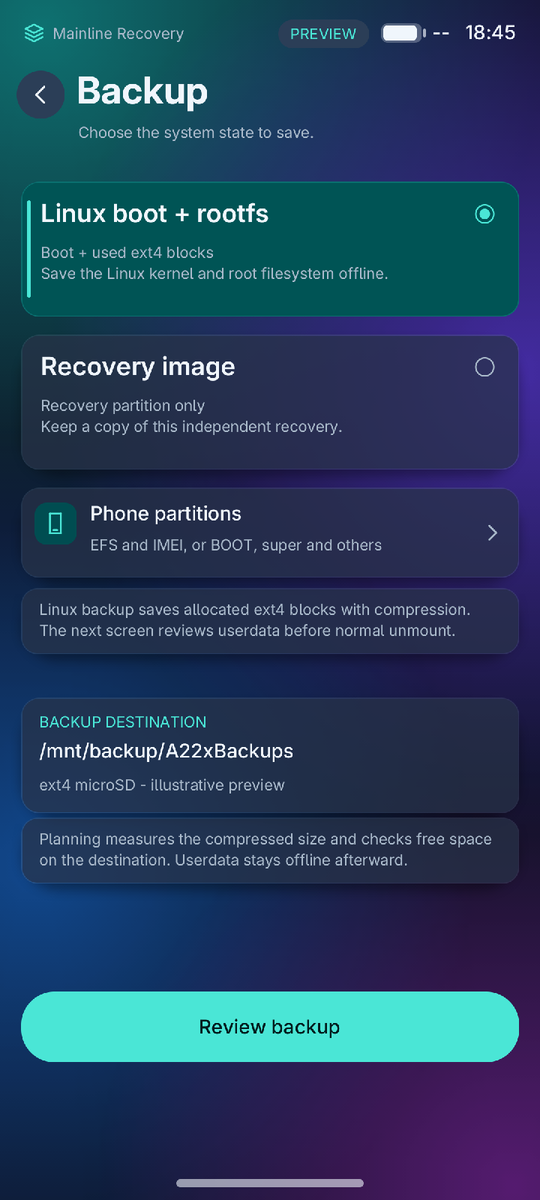
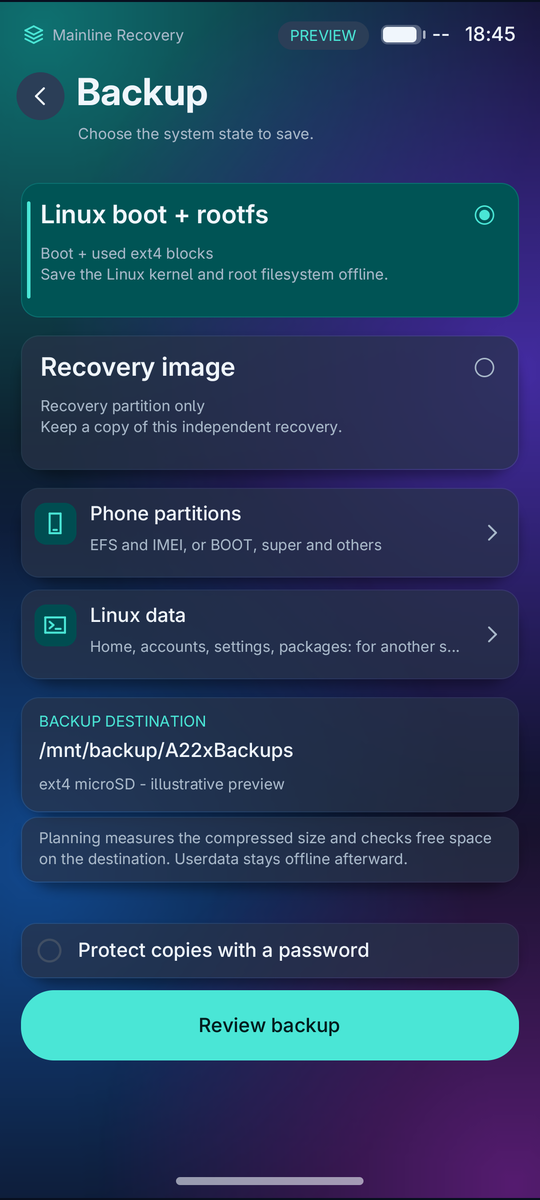
1.0.0 docs: test results, English screenshots; About says what restores
- docs/TEST_RESULTS(_UK).md: the automatic run of 1.0.0 (797 Python, 109
  backend, 105 UI self-tests, every UI suite), and the checks on the phone
  from 0.6.207 to the public 1.0.0 image.
- docs/screenshots/en: Backup with Linux data, Backup protected with a
  password, the password page and its dots, Linux data and its restore,
  several files selected in Files (rendered from the interface's previews).
- About: the line of the 0.3 raw restore said restore was not qualified
  while Linux snapshots restored; it now says whether they restore here.

Claude-Session: https://claude.ai/code/session_011X51ML8nmkZnA9U8adKvGD

diff --git a/ui/i18n_data.h b/ui/i18n_data.h
@@ -4,7 +4,7 @@
 #define LANGUAGE_COUNT 6
 static const char*const language_codes[LANGUAGE_COUNT]={"en","uk","de","es","fr","pl"};
 static const char*const language_names[LANGUAGE_COUNT]={"English","Українська","Deutsch","Español","Français","Polski"};
-#define MESSAGE_COUNT 2203
+#define MESSAGE_COUNT 2204
 static const char*const message_ids[MESSAGE_COUNT]={
 "  /  skip-identical",
 " / preview truncated",
@@ -497,7 +497,6 @@ static const char*const message_ids[MESSAGE_COUNT]={
 "Desktop: %s  /  apps: %u",
 "Device",
 "Device inventory received",
-"Device restore is not qualified in this build",
 "Device tree overlays",
 "Diagnostic logs may include filenames, hardware identifiers and network details. Inspect the archive before sharing it.",
 "Diagnostics cannot be exported now.",
@@ -838,6 +837,8 @@ static const char*const message_ids[MESSAGE_COUNT]={
 "Linux data saved, protected with the password",
 "Linux from SD or USB stick, switch systems",
 "Linux restore awaits qualification",
+"Linux snapshots: restore and wipe available",
+"Linux snapshots: restore unavailable on this phone",
 "Linux systems",
 "Linux used-block snapshot. Wipe empties userdata only and requires this backup to match its current contents. Boot and recovery are preserved.",
 "Live",
@@ -2703,7 +2704,6 @@ static const char*const message_text[LANGUAGE_COUNT-1][MESSAGE_COUNT]={
 "Робочий стіл: %s  /  програм: %u",
 "Пристрій",
 "Дані про пристрій отримано",
-"Відновлення на пристрої не кваліфіковане в цій збірці",
 "Накладання дерева пристроїв",
 "Діагностичні журнали можуть містити назви файлів, ідентифікатори обладнання та дані мережі. Перегляньте архів, перш ніж ділитися ним.",
 "Зараз не вдається експортувати діагностику.",
@@ -3044,6 +3044,8 @@ static const char*const message_text[LANGUAGE_COUNT-1][MESSAGE_COUNT]={
 "Дані Linux збережено й захищено паролем",
 "Linux із SD чи флешки, перемикання систем",
 "Відновлення Linux очікує кваліфікації",
+"Знімки Linux: відновлення й стирання доступні",
+"Знімки Linux: відновлення недоступне на цьому телефоні",
 "Системи Linux",
 "Знімок зайнятих блоків Linux. Стирання очищає лише userdata і потребує, щоб ця копія збігалася з його вмістом. Boot і recovery лишаються.",
 "Наживо",
@@ -4908,7 +4910,6 @@ static const char*const message_text[LANGUAGE_COUNT-1][MESSAGE_COUNT]={
 "Desktop: %s  /  Apps: %u",
 "Gerät",
 "Geräteinventar empfangen",
-"Wiederherstellung auf dem Gerät ist in diesem Build nicht qualifiziert",
 "Device-Tree-Overlays",
 "Diagnoseprotokolle können Dateinamen, Hardwarekennungen und Netzwerkdaten enthalten. Prüfen Sie das Archiv, bevor Sie es teilen.",
 "Diagnose kann jetzt nicht exportiert werden.",
@@ -5249,6 +5250,8 @@ static const char*const message_text[LANGUAGE_COUNT-1][MESSAGE_COUNT]={
 "Linux-Daten gesichert, mit dem Passwort geschützt",
 "Linux von SD oder USB-Stick, Systemwechsel",
 "Linux-Wiederherstellung wartet auf Qualifizierung",
+"Linux-Snapshots: Wiederherstellen und Löschen verfügbar",
+"Linux-Snapshots: Wiederherstellen auf diesem Telefon nicht verfügbar",
 "Linux-Systeme",
 "Snapshot belegter Linux-Blöcke. Löschen leert nur Userdata und setzt voraus, dass diese Sicherung dem aktuellen Inhalt entspricht. Boot und Recovery bleiben erhalten.",
 "Live",
@@ -7113,7 +7116,6 @@ static const char*const message_text[LANGUAGE_COUNT-1][MESSAGE_COUNT]={
 "Escritorio: %s  /  aplicaciones: %u",
 "Dispositivo",
 "Inventario del dispositivo recibido",
-"La restauración en el dispositivo no está cualificada en esta versión",
 "Superposiciones del árbol de dispositivos",
 "Los registros de diagnóstico pueden incluir nombres de archivo, identificadores de hardware y datos de red. Revisa el archivo antes de compartirlo.",
 "Ahora no se puede exportar el diagnóstico.",
@@ -7454,6 +7456,8 @@ static const char*const message_text[LANGUAGE_COUNT-1][MESSAGE_COUNT]={
 "Datos de Linux guardados, protegidos con la contraseña",
 "Linux desde SD o USB, cambiar de sistema",
 "La restauración de Linux espera cualificación",
+"Instantáneas de Linux: restaurar y borrar disponibles",
+"Instantáneas de Linux: restaurar no disponible en este teléfono",
 "Sistemas Linux",
 "Instantánea de bloques usados de Linux. Borrar vacía solo userdata y requiere que esta copia coincida con su contenido actual. Boot y recovery se conservan.",
 "En vivo",
@@ -9318,7 +9322,6 @@ static const char*const message_text[LANGUAGE_COUNT-1][MESSAGE_COUNT]={
 "Bureau : %s  /  applications : %u",
 "Appareil",
 "Inventaire de l'appareil reçu",
-"La restauration sur l'appareil n'est pas qualifiée dans cette version",
 "Superpositions du Device Tree",
 "Les journaux de diagnostic peuvent contenir des noms de fichiers, des identifiants matériels et des informations réseau. Examinez l'archive avant de la partager.",
 "Le diagnostic ne peut pas être exporté maintenant.",
@@ -9659,6 +9662,8 @@ static const char*const message_text[LANGUAGE_COUNT-1][MESSAGE_COUNT]={
 "Données Linux sauvegardées, protégées par le mot de passe",
 "Linux depuis SD ou clé USB, changer de système",
 "La restauration Linux attend sa qualification",
+"Instantanés Linux : restauration et effacement disponibles",
+"Instantanés Linux : restauration indisponible sur ce téléphone",
 "Systèmes Linux",
 "Instantané des blocs utilisés de Linux. L'effacement vide uniquement userdata et exige que cette sauvegarde corresponde à son contenu actuel. Boot et recovery sont conservés.",
 "Direct",
@@ -11523,7 +11528,6 @@ static const char*const message_text[LANGUAGE_COUNT-1][MESSAGE_COUNT]={
 "Pulpit: %s  /  aplikacje: %u",
 "Urządzenie",
 "Odebrano spis urządzenia",
-"Przywracanie na urządzeniu nie jest zakwalifikowane w tej wersji",
 "Nakładki drzewa urządzeń",
 "Dzienniki diagnostyczne mogą zawierać nazwy plików, identyfikatory sprzętu i dane sieci. Przejrzyj archiwum przed udostępnieniem.",
 "Nie można teraz wyeksportować diagnostyki.",
@@ -11864,6 +11868,8 @@ static const char*const message_text[LANGUAGE_COUNT-1][MESSAGE_COUNT]={
 "Dane Linuksa zapisane i chronione hasłem",
 "Linux z karty SD lub USB, zmiana systemu",
 "Przywracanie Linuksa czeka na kwalifikację",
+"Migawki Linuksa: przywracanie i czyszczenie dostępne",
+"Migawki Linuksa: przywracanie niedostępne na tym telefonie",
 "Systemy Linux",
 "Migawka zajętych bloków Linuksa. Czyszczenie opróżnia tylko userdata i wymaga, by ta kopia zgadzała się z jego obecną zawartością. Boot i recovery zostają.",
 "Na żywo",

diff --git a/ui/recovery_ui.c b/ui/recovery_ui.c
@@ -1441,7 +1441,10 @@ static void render_system(App*a){
     if(!a->partition_count){rounded(a,(Rect){28,y,664,84},26,PANEL);ellipsis(a,52,y+26,616,0,MUTED,a->message[0]?a->message:"No partition inventory received.");y+=102;}
     /* On a card, because a theme's picture may be behind this text. */
     rounded(a,(Rect){28,y,664,206},26,PANEL);wrapped(a,52,y+18,616,0,MUTED,"Recovery runs from RAM. Mounted Linux volumes can be maintained independently of the installed system. Encrypted volumes require their own unlock support.",4);
-    ellipsis(a,52,y+160,616,0,a->restore_qualified?GREEN:ORANGE,a->restore_qualified?"Restore admitted for regular-file fixtures":"Device restore is not qualified in this build");y+=224;
+    /* 2026-11-13, on the phone: the line of the 0.3 raw restore said restore was not qualified while
+       Linux snapshots restored; it now says what this recovery can restore. */
+    ellipsis(a,52,y+160,616,0,a->restore_qualified||a->linux_restore_available?GREEN:ORANGE,a->restore_qualified?"Restore admitted for regular-file fixtures":
+             a->linux_restore_available?"Linux snapshots: restore and wipe available":"Linux snapshots: restore unavailable on this phone");y+=224;
     button(a,(Rect){28,y,664,84},"Refresh inventory",A_REFRESH,ui_free(a),false,0);y+=108;
     a->page_content=y+a->page_scroll-230;a->clip_active=false;scroll_indicator(a,(Rect){698,230,5,1254},a->page_scroll,a->page_content,ORANGE);
 }
@@ -5452,7 +5455,7 @@ static bool preview(App*a,const char*name){
         a->pw_retry_kind=J_NONE;a->pw_return=BACKUP;a->fs_prompt_kind=J_BACKUP_PASSWORD;copy(a->fs_prompt,sizeof(a->fs_prompt),"pass7k");a->prompt_cursor=strlen(a->fs_prompt);a->secret_count=6;a->now=2000000;
         a->secret_typed_at=!strcmp(name,"secret-reveal")?a->now-200:(!strcmp(name,"secret-pop")?a->now-SECRET_REVEAL_MS-110:0);a->screen=FILE_PROMPT;}
     else if(!strcmp(name,"backup-password")){a->pw_retry_kind=J_NONE;a->pw_return=BACKUP;a->fs_prompt_kind=J_BACKUP_PASSWORD;copy(a->fs_prompt,sizeof(a->fs_prompt),"my pass 2026");a->prompt_cursor=strlen(a->fs_prompt);a->screen=FILE_PROMPT;}
-    else if(!strcmp(name,"backup-protected")){a->backup_encrypt=true;a->screen=BACKUP;}
+    else if(!strcmp(name,"backup-protected")){a->backup_encrypt=true;copy(a->backup_password,sizeof(a->backup_password),"my pass 2026");a->linux_backup_available=true;a->screen=BACKUP;}
     else if(!strcmp(name,"wipe-android")){a->wipe_android=true;a->screen=WIPE_REVIEW;}
     else if(!strncmp(name,"android-log",11)){
         /* What the owner met (kernel), init giving up for another reason (init), and a panic. */

diff --git a/docs/TEST_RESULTS_UK.md b/docs/TEST_RESULTS_UK.md
@@ -1,12 +1,65 @@
 # Результати тестів
 
-Recovery **0.6.206**, ядро recovery `7.2.0-a22x-recovery+ #137`, BOOT v147 (ядро `#138`), 12.11.2026.
+Recovery **1.0.0**, ядро recovery `7.2.0-a22x-recovery+ #137`, BOOT v147 (ядро `#138`), 13.11.2026,
+на SM-A226B з 64 ГБ.
 
 Тут розділено два види доказів. Перший — автоматичні тести на комп'ютері з фікстурами, без
 телефона. Другий — те, що зроблено на самому телефоні (SM-A226B) дотиками, як це робив би
 власник. Те, що пройшло лише на комп'ютері, ніде не названо робочим на телефоні.
 
-## Автоматичні тести (комп'ютер, фікстури)
+## Автоматичні тести (комп'ютер, фікстури), 1.0.0
+
+Один повний прогін усіх наборів на вихідниках 1.0.0: **пройдено всі 25**.
+
+| Набір | Результат | Обсяг |
+|---|---|---|
+| Помічники (Python): `tests/` | пройдено | 797 тестів |
+| Бекенд копій: `backend/tests/` | пройдено | 109 тестів |
+| Самоперевірки інтерфейсу: `make test` | пройдено | 105 |
+| 22 набори інтерфейсу (`ui/Makefile`: `integration` … `catalog-chain-test`) | пройдено | як для 0.6.206, плюс сторінки «Дані Linux» і пароля |
+| `ui: make linux-integration` | пройдено | 4 сценарії; з partclone для x86-64 з набору кваліфікації в `PATH` |
+
+## На телефоні, від 0.6.207 до 1.0.0 (12 і 13 листопада 2026)
+
+Зроблено дотиками на телефоні, якщо не сказано інакше.
+
+| Що | Збірка | Результат |
+|---|---|---|
+| Знімок Linux без кваліфікаційної капсули: userdata стерто у «Файлах», знімок Ubuntu 26.04 відновлено | 234 | відновлено й перевірено; Ubuntu запустилася: жодної збійної служби, Phosh, мережа, `/home` з 402 файлами |
+| Новий знімок; userdata стерто стиранням самого знімка; знімок відновлено | 235 | кожен крок перевірено; Ubuntu запустилася в тому самому стані |
+| Картка, змонтована у «Файлах», вибрана місцем копій | 235 | змонтована для копій; раніше `SD_ALREADY_MOUNTED_ELSEWHERE` |
+| «Відновлення» показує знімки після монтування картки на «Носіях» | 235 | працює; раніше список лишався порожнім |
+| Копія п'яти розділів Android під паролем | 236 | збережено зашифрованою (`Salted__`, відкривається openssl на комп'ютері); після перезапуску показана закритою; неправильний пароль відхилено; перевірено; відновлено: зіпсований `vbmeta_system` записано назад, перечитано, хеш як раніше |
+| Архів `/home/user` у «Файлах» під паролем, потім розпакований | 236 | 402 файли, ідентичні (один хеш на всі), власник і права збережено |
+| «Дані Linux» під паролем, відновлені вручну в Ubuntu: `restore.sh` дістано через openssl, пароль із пробілом введено в його запит | 236 | облікові записи збережено, домашні теки, 8 налаштувань, 79 з 79 пакетів; видалений файл повернувся зі своїм власником |
+| Архів, що писав крізь жорстке посилання за межі своєї теки | 236 | відхилено (`ARCHIVE_UNSAFE`); файл назовні не змінився |
+| 1100 тек запаковано при ліміті 256 відкритих файлів | 236 | запаковано |
+| «Дані Linux» пропонують просто вставлену картку як місце для копії | 236 | пропонують і потім від'єднують |
+| Декодер Brotli з байтами після кінця потоку | 236 | відхилено |
+| Флешка (OTG) як місце копій: на неї зроблено копію recovery; «Безпечно вийняти» (зробив власник, прочитано з журналу recovery) | 236 | копію збережено й перевірено; від'єднання виконано. «USB-файли» не можуть віддати саму флешку: єдиний порт тоді хост |
+| Старт: спершу відновлення обірваного запису, потім перевірка перезапуску, після неї прибирання cache | 237 | саме в такому порядку; прибирання читає описи копій |
+| vbmeta для root читається перевіреним циклом | 237 | прочитано: на цьому телефоні перевірку вимкнено |
+| Запис профілю звуку у файлах платформи в образі | 237 | посилання на теку UCM телефона |
+| Знімок екрана, коли операційний замок вільний | 237 | збережено на картку |
+| Публічний образ 1.0.0: версія, Linux-знімки без капсули, перевірка оновлень | 1.0.0 | показує 1.0.0; ключа SSH і капсули немає; знімки: копія, відновлення, стирання доступні; v0.6.206 на GitHub не пропонується як оновлення |
+| Прошивка Samsung A226BXXSBDZC3 з її ZIP на картці | 218 | розпаковано, MD5 перевірено, записано й перечитано; стоковий Android запустився |
+| LineageOS 20 для A226B через власний `update-binary` | 221 | встановлено; запустився після запропонованого скидання даних Android |
+| ZIP ядра AnyKernel3 (BakaSU + SUSFS) | 220 | встановлено; Android запустився після скидання даних |
+| Порт One UI від KKRT (блочне OTA): його інсталятор упав, recovery записав образи сам | 217 | записано й перечитано |
+| «Дані Linux»: домашні теки, облікові записи, налаштування й пакети Arch Linux ARM відновлено в Ubuntu 26.04 | 227–230 | 372 файли ідентичні, власники зіставлено за іменем; apt встановив те, що є в Ubuntu |
+| Кілька файлів одразу у «Файлах»; утримання спрацьовує, щойно заповниться | 222 | працює |
+| Перевірка й виправлення F2FS і FAT | 231 | на тимчасових файлових системах на телефоні |
+
+### Ще не перевірено на телефоні
+
+- SM-A226B на **128 ГБ**: розміри обчислюються за PIT Samsung і перевірені лише на комп'ютері.
+- Перевірка й виправлення на справжньому томі F2FS чи FAT (лише на тимчасових файлових системах).
+- Android, що відкриває свої дані після відновлення з копії.
+- Застосунок для Android на телефоні (його скрипти запускалися в recovery проти тестових пристроїв).
+
+## Раніше: 0.6.206
+
+### Автоматичні тести (комп'ютер, фікстури)
 
 Один повний прогін усіх наборів на вихідниках 0.6.206: **пройдено 24 із 24 наборів**.
 
@@ -44,7 +97,7 @@ Recovery **0.6.206**, ядро recovery `7.2.0-a22x-recovery+ #137`, BOOT v147 (
 Застосунок для Android має власну перевірку (її запускає `apk/build.sh` під час кожного
 збирання): 68 перевірок скриптів, що передають образи й налаштування в recovery.
 
-## На телефоні, 11 і 12 листопада 2026
+### На телефоні, 11 і 12 листопада 2026
 
 Зроблено дотиками на телефоні, якщо не сказано інше.
 
@@ -92,7 +145,7 @@ Recovery **0.6.206**, ядро recovery `7.2.0-a22x-recovery+ #137`, BOOT v147 (
 | Повна копія Evolution X з даними; потім поверх неї встановлено Arch Linux ARM з Plasma Mobile і автоматичним входом; потім копію відновлено (робив власник) | 206 | Arch Linux запустився з першого разу. Після відновлення Evolution X запустився з тими самими даними: налаштування пройдено, root Magisk (31.1) і обидва застосунки з часу до копії, без запиту на скидання |
 | Застосунок-інсталятор: сторінка оновлень, BOOT Android сам зберігається в cache | 205 | працює |
 
-### Образи Android, випробувані на цьому телефоні
+#### Образи Android, випробувані на цьому телефоні
 
 | Образ | Результат |
 |---|---|
@@ -103,14 +156,14 @@ Recovery **0.6.206**, ядро recovery `7.2.0-a22x-recovery+ #137`, BOOT v147 (
 | Android 15 GSI від Google | не запускається: потрібне ядро 4.19, а ядро Android цього телефона — 4.14; прибрано з каталогу |
 | Прошивка Samsung, відновлена з копії самого recovery | запускається |
 
-### Ще не доведено на телефоні
+#### Ще не доведено на телефоні
 
 - Phosh під пальцем власника в образі Manjaro (дотики надсилалися у вузол введення сенсорного екрана з комп'ютера).
 - Чи відкриє Android свої дані після відновлення з копії (саме відновлення перевірено вище).
 - Образи Android, встановлені 12.11.2026, не запускалися: Android не запускається без власника біля телефона.
 - Застосунок для Android на телефоні (його скрипти запускалися в recovery на тестових пристроях).
 
-### Знайдено під час тестування 12.11.2026
+#### Знайдено під час тестування 12.11.2026
 
 - **Надісланий файл одного разу втратив 16 МіБ.** Образ recovery, надісланий через `adb push`,
   мав правильну контрольну суму з пам'яті, а після повторного монтування тому читався з 16 МіБ

diff --git a/docs/TEST_RESULTS.md b/docs/TEST_RESULTS.md
@@ -8,6 +8,18 @@ against fixtures, with no phone attached. The second is what was done on the pho
 (SM-A226B), by touch, the way an owner would do it. Something that passed only on the computer
 is never listed as working on the phone.
 
+## Automatic tests (computer, fixtures), 1.0.0
+
+One full run of every suite on the sources of 1.0.0: **all 25 passed**.
+
+| Suite | Result | Size |
+|---|---|---|
+| Helpers (Python): `tests/` | pass | 797 tests |
+| Backup backend: `backend/tests/` | pass | 109 tests |
+| Interface self-tests: `make test` | pass | 105 self-tests |
+| 22 interface suites (`ui/Makefile`: `integration` … `catalog-chain-test`) | pass | as for 0.6.206, plus the Linux data and password pages |
+| `ui: make linux-integration` | pass | 4 workflows; with the x86-64 partclone of the qualification toolchain on the `PATH` |
+
 ## On the phone, 0.6.207 to 1.0.0 (2026-11-12 and 2026-11-13)
 
 Done by touch on the phone unless said otherwise.
@@ -30,6 +42,7 @@ Done by touch on the phone unless said otherwise.
 | vbmeta read for root through the checked loop | 237 | read: verification off on this phone |
 | The sound profile entry in the image's platform files | 237 | a link to the phone's UCM folder |
 | A screenshot while nothing holds the operation lock | 237 | saved on the card |
+| The public image 1.0.0: version, Linux snapshots without a capsule, the update check | 1.0.0 | shows 1.0.0; no SSH key, no capsule; snapshots: backup, restore and wipe offered; v0.6.206 on GitHub is not offered as an update |
 | Stock firmware A226BXXSBDZC3 installed from its ZIP on the card | 218 | unpacked, MD5-checked, written and read back; stock Android started |
 | LineageOS 20 for A226B installed by its own `update-binary` | 221 | installed; started after the offered reset of Android's data |
 | An AnyKernel3 kernel ZIP (BakaSU + SUSFS) | 220 | installed; Android started after the data reset |
